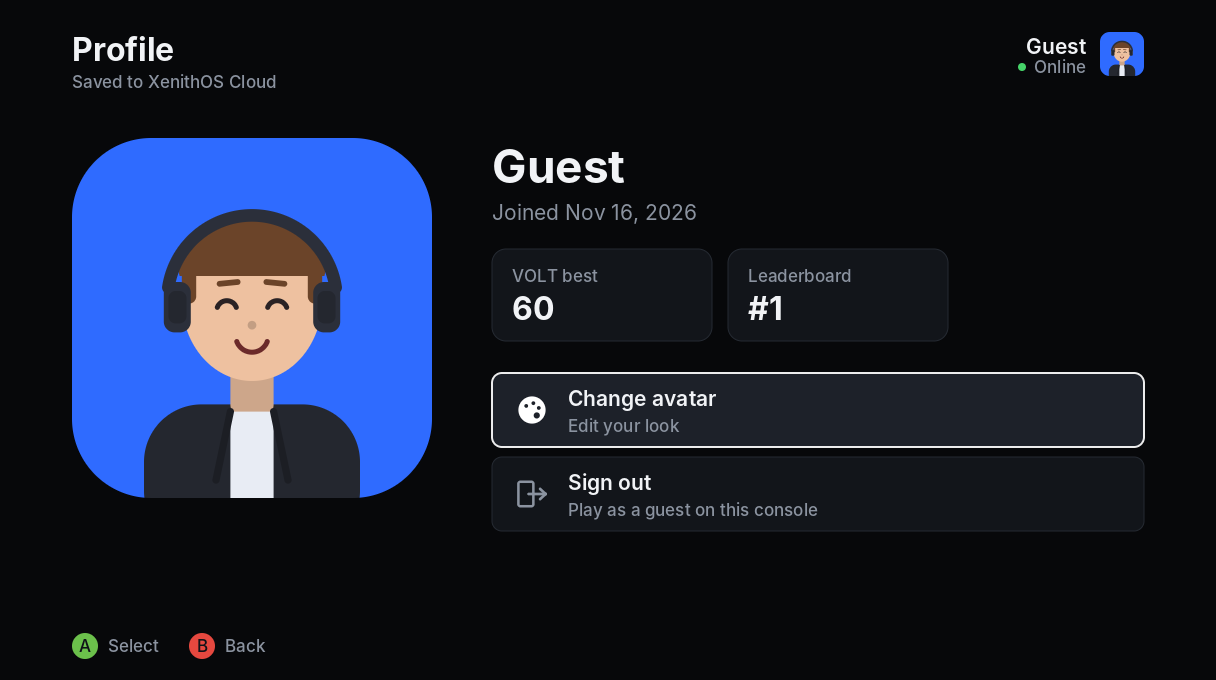
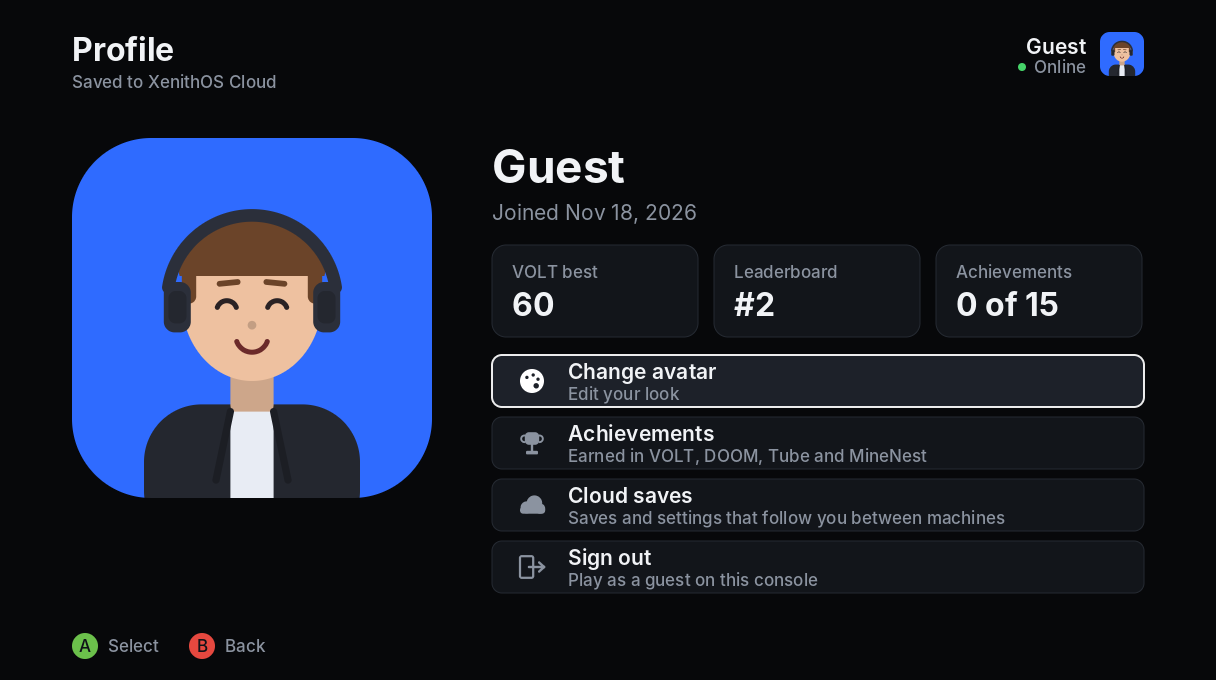
Site: screenshots at 0.7.2, with Friends, and the page current
The "What it looks like" pictures again from the simulator at 0.7.2, as Guest with the user's avatar: the home screen's seven tiles, the Store, Cloud, a new Friends shot (one made-up friend, Nova, on and playing VOLT), Profile, Avatar, the guide, and VOLT now saying Online. The page asks for them as ?v=6 and has a Friends tab. The intro names friends and MineNest, the Store's caption the signed lists and the downloads queue, and the status table has the signed Store and crash reports and PCs on HTTPS.

sim/scripts/gallery.txt takes the Friends shot too. The simulator gets XSIM_NET_UP=1 (sim/README.md): the network up from the start, as a PC's simply is, so an app that never asks for it (VOLT before it uploads a score) isn't shown Offline.

diff --git a/server/web/index.html b/server/web/index.html
@@ -207,7 +207,8 @@
   <svg id="logo" aria-label="XenithOS"></svg>
   <p>XenithOS is a homebrew console system. It runs on an Xbox 360 in place of the Microsoft dashboard, and on
     PCs and Raspberry Pis as a console you can switch to a normal Linux desktop. It has its own home screen,
-    profiles with avatars, a store, YouTube, DOOM and a light-trail game.</p>
+    profiles with avatars and friends, a store, YouTube, DOOM, a light-trail game, and Minecraft servers on
+    PCs with MineNest.</p>
   <p class="sub">Every copy uses XenithOS Cloud, the free service this page runs on: profiles, friends, cloud
     saves, achievements, the Store, news, leaderboards and Tube (YouTube) live here, for everyone. It's written in C, on libxenon for the Xbox and
     SDL2 everywhere else.</p>
@@ -225,7 +226,7 @@
   <div class="wrap">
     <h2>What it looks like</h2>
     <p class="lead">These come from the XenithOS simulator, which runs the exact code that goes on the console and saves the frames as images.</p>
-    <div class="shot"><img id="shot" src="static/shot-home.png?v=5" alt="The XenithOS home screen" width="1216" height="680"></div>
+    <div class="shot"><img id="shot" src="static/shot-home.png?v=6" alt="The XenithOS home screen" width="1216" height="680"></div>
     <p class="caption" id="caption"></p>
     <div class="tabs" role="tablist" id="tabs"></div>
   </div>
@@ -279,8 +280,9 @@
         <tr><td>Sound in games, app start times</td><td class="yes" data-k="Builds">yes</td><td class="not" data-k="On the Xbox">not yet</td><td class="note">0.5.1 keeps the picture up between programs and lines the sound chip up after a game</td></tr>
         <tr><td>Profiles, Cloud, avatars</td><td class="yes" data-k="Builds">yes</td><td class="not" data-k="On the Xbox">not yet</td><td class="note">needs the Ethernet cable on the Xbox; no Wi-Fi driver</td></tr>
         <tr><td>Friends, cloud saves, achievements</td><td class="yes" data-k="Builds">yes</td><td class="not" data-k="On the Xbox">not yet</td><td class="note">tested in the simulator as two consoles on one XenithOS Cloud; a save going up from the Xbox hasn't been tried on the real console</td></tr>
+        <tr><td>Signed Store, crash reports</td><td class="yes" data-k="Builds">yes</td><td class="not" data-k="On the Xbox">not yet</td><td class="note">since 0.7.0 every Store list is signed by XenithOS Cloud and consoles check it; the Xbox's check and its crash screen haven't run on a real console yet</td></tr>
         <tr><td>VOLT, DOOM, Tube, Photos</td><td class="yes" data-k="Builds">yes</td><td class="not" data-k="On the Xbox">not yet</td><td class="note">DOOM comes with Freedoom and has sound effects; no music yet</td></tr>
-        <tr><td>PCs and Raspberry Pis</td><td class="yes" data-k="Builds">yes</td><td class="note" data-k="On the Xbox">-</td><td class="note">0.5.2 runs apps inside XenithOS's window: no black screen between them</td></tr>
+        <tr><td>PCs and Raspberry Pis</td><td class="yes" data-k="Builds">yes</td><td class="note" data-k="On the Xbox">-</td><td class="note">apps run inside XenithOS's window with no black screen between them, and since 0.7.0 they reach XenithOS Cloud over HTTPS</td></tr>
         <tr><td>Minecraft and the guide</td><td class="yes" data-k="Builds">yes</td><td class="note" data-k="On the Xbox">-</td><td class="note">PCs only; they open over XenithOS on its own X server and the guide comes up over them, tested in a virtual display</td></tr>
         <tr><td>MineNest (was HostMC)</td><td class="yes" data-k="Builds">yes</td><td class="note" data-k="On the Xbox">-</td><td class="note">PCs only; a program of its own now, which XenithOS installs at a version it has checked. Tested with stand-in servers; nobody has joined one from a real copy of Minecraft yet</td></tr>
         <tr><td>XenithOS Desktop (the whole OS for PCs)</td><td class="yes" data-k="Builds">yes</td><td class="note" data-k="On the Xbox">-</td><td class="note">installed on a real PC, and installs, starts and updates itself in VirtualBox with UEFI, Secure Boot and BIOS</td></tr>
@@ -509,16 +511,17 @@ $("nav").addEventListener("click", (e) => {
 /* Screens */
 const SHOTS = [
   ["home", "Home", "Your profile at the top, seven tiles, and the apps you've installed. A notification slides in when there's XenithOS news, a friend comes online, or someone asks to be friends."],
-  ["store", "Store", "Apps, game data and updates from XenithOS Cloud, with thumbnails. Downloads are checked against their SHA-256 before they're saved."],
+  ["store", "Store", "Apps, game data and updates from XenithOS Cloud, with thumbnails. Its lists come signed by XenithOS Cloud, every download is checked against its SHA-256 before it's saved, and X picks several to download one after another."],
   ["guide", "Guide", "On a PC, the Xbox button (or Esc held down) brings up the guide over any game: back to the home screen while it keeps running, another game, or the controller as a mouse or a keyboard."],
   ["profile", "Profile", "Profiles are saved to XenithOS Cloud and follow you to any Xbox, PC or Pi. Make one with a gamertag and a passcode."],
   ["avatar", "Avatar", "Thirteen parts in three tabs: face, hair and outfit, with every colour as a swatch. Y picks something random."],
   ["cloud", "Cloud", "Your friends who are on and what they're playing, XenithOS news, and the VOLT leaderboard with everyone's avatar."],
+  ["friends", "Friends", "Ask someone by their gamertag. Once they say yes, you see each other online, what you're playing, and each other's MineNest servers to join."],
   ["volt", "VOLT", "Grab sparks, don't hit the walls. Your best score goes on your profile."],
 ];
 function showShot(i) {
   const [id, name, text] = SHOTS[i];
-  $("shot").src = `static/shot-${id}.png?v=5`;
+  $("shot").src = `static/shot-${id}.png?v=6`;
   $("shot").alt = `XenithOS ${name} screen`;
   $("caption").textContent = text;
   [...$("tabs").children].forEach((b, j) => b.setAttribute("aria-selected", i === j ? "true" : "false"));

diff --git a/sim/net_sim.c b/sim/net_sim.c
@@ -1,16 +1,24 @@
 /* net.h in the simulator: the PC's client (linux/http_posix.c), held to what the console's
  * lwIP client can do while the simulator plays an Xbox: "a.b.c.d:port" only, so no names and
  * no HTTPS. As a PC (XSIM_KIND=pc) it takes everything a PC does. */
+#include <stdlib.h>
 #include <string.h>
 
 #include "http_posix.h"
 #include "net.h"
 #include "platform.h"
 
-static int up;
+/* The network is down until something brings it up (net_up), as on the Xbox. XSIM_NET_UP=1 starts
+ * with it up, as a PC's simply is: an app that never asks then shows Online too. */
+static int up = -1;
+static int is_up(void)
+{
+    if (up < 0) up = getenv("XSIM_NET_UP") && !strcmp(getenv("XSIM_NET_UP"), "1");
+    return up;
+}
 int net_up(void) { up = 1; return 1; }
-int net_is_up(void) { return up; }
-const char *net_ip(void) { return up ? "127.0.0.1" : ""; }
+int net_is_up(void) { return is_up(); }
+const char *net_ip(void) { return is_up() ? "127.0.0.1" : ""; }
 
 int net_http_once(const char *host, const char *method, const char *path,
                   const char *body, int body_len, int max_bytes,

diff --git a/sim/README.md b/sim/README.md
@@ -59,6 +59,8 @@ More switches:
   signed` or `... refused`.
 - `XSIM_NET_TIME=1` lets virtual time pass while waiting on the network, as real time does on a console, so a
   screen that draws during a download (the Store's downloads queue) gets its frames and reads its buttons then.
+- `XSIM_NET_UP=1` starts with the network up, as a PC's simply is. Otherwise it's down until something asks
+  for it, as on the Xbox, so an app that never needs it (VOLT before uploading a score) says Offline.
 - `XSIM_DESKTOP=1` runs the program as a desktop app, as XenithOS Desktop's Apps menu opens it
   (`plat_desktop()`): the script drives a mouse and the keyboard's own keys too (below), and
   `XSIM_CLIPBOARD` is what's been copied when it starts (what the program copies is said on stderr, as
